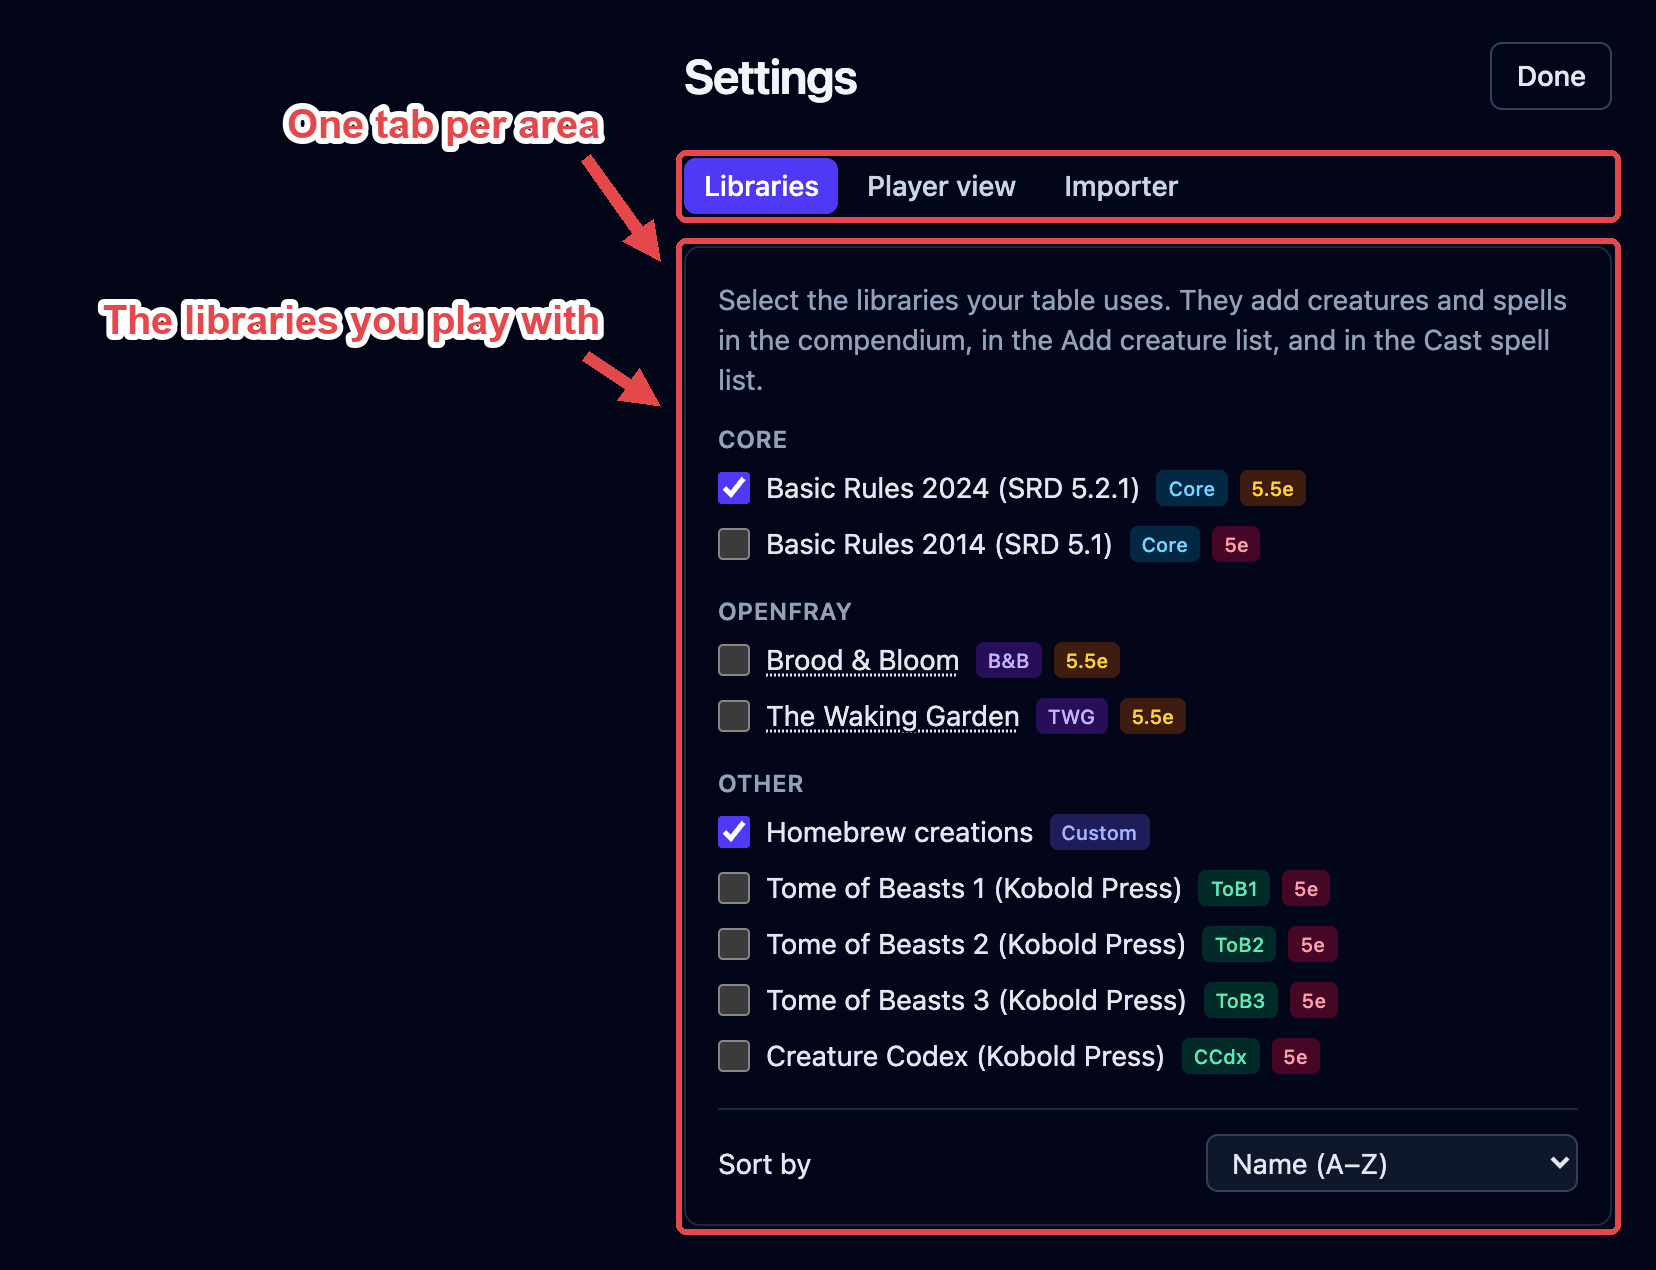
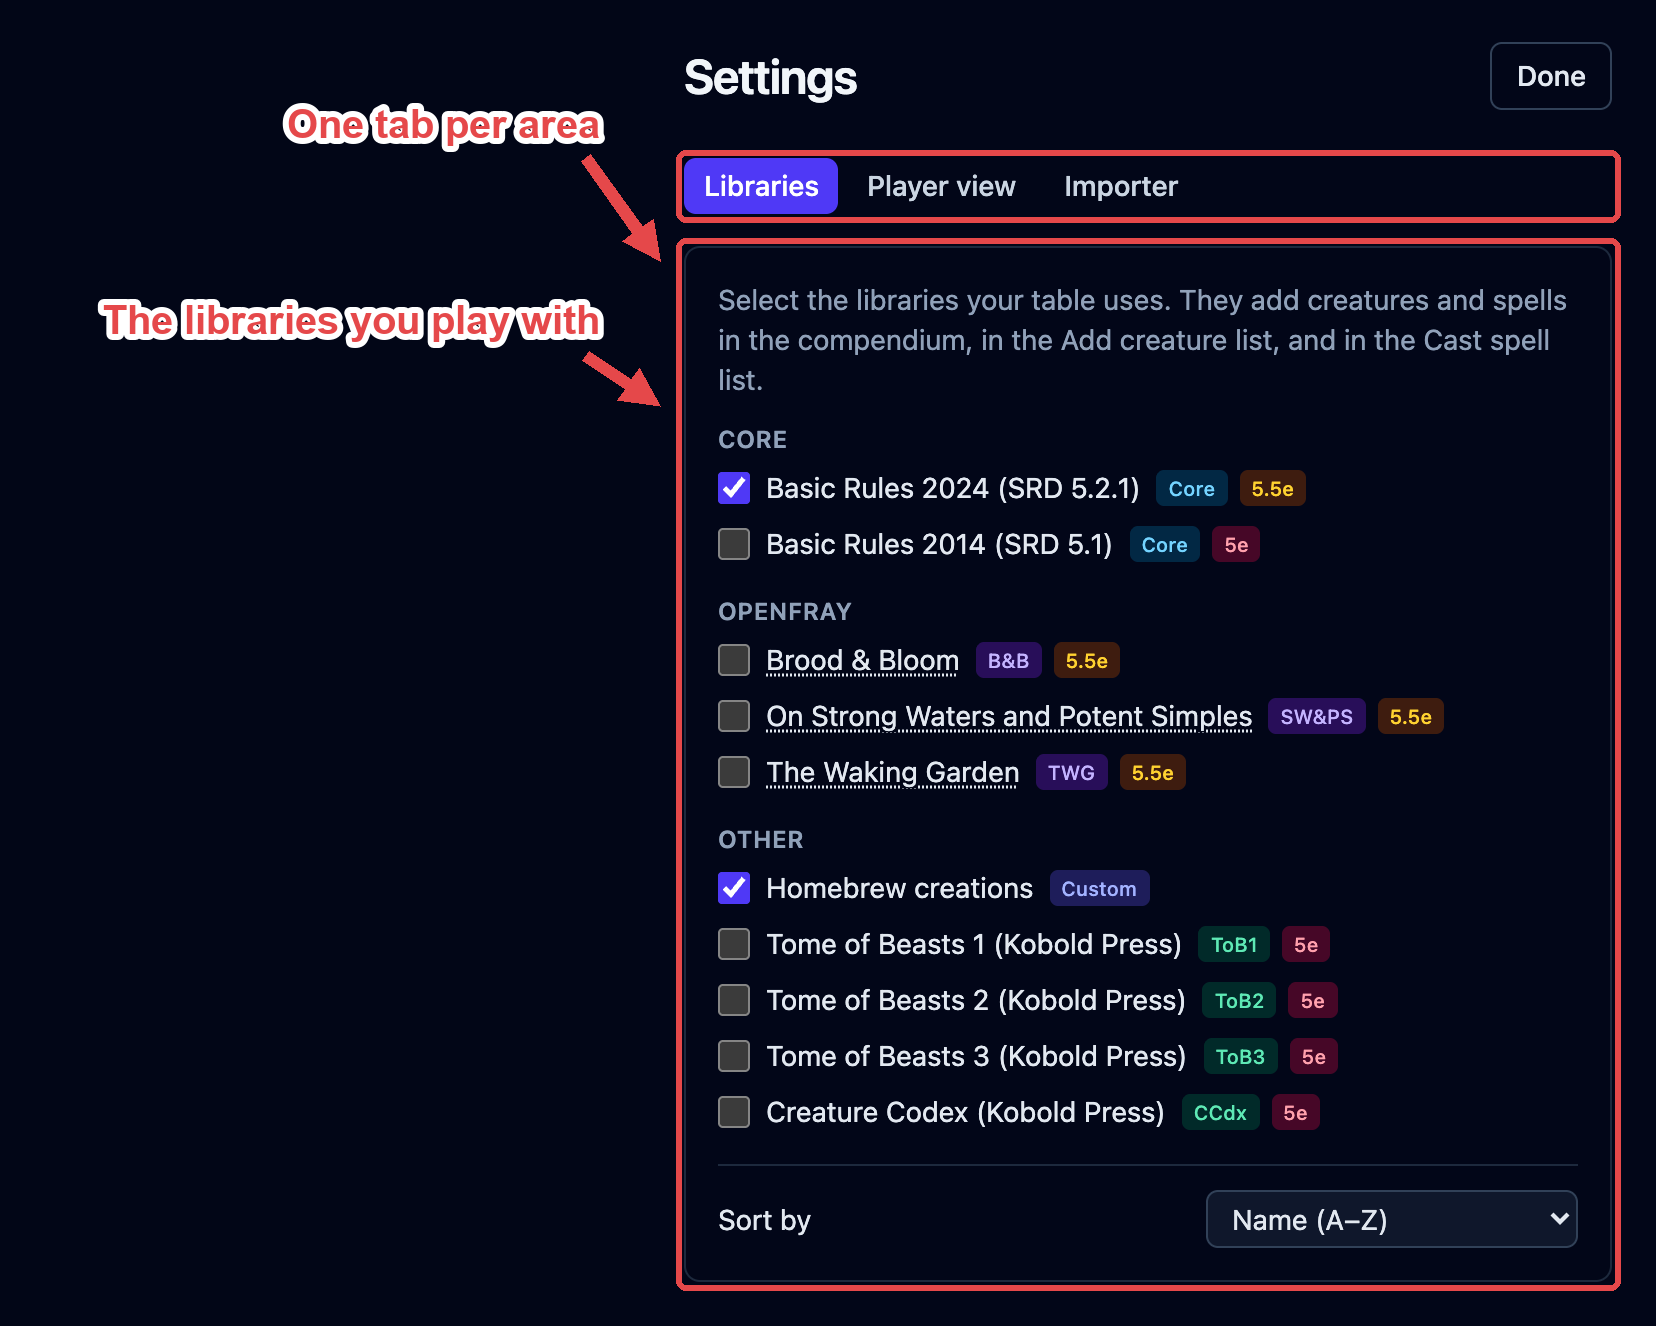
Docs: give the third book its place in the library lists
CREDITS names it beside the other two first-party works, and both handbook
pages that enumerate the libraries gain an entry. It needs its own sentence
rather than a third name in the existing one: it is the only book here that
adds no creatures, so a reader who ticks it and then opens Add creature has to
already know nothing will have changed.

The two Settings captures are re-shot from the current build, since a library
list with a library missing from it is a stale screenshot.

Changed region(s): [[0.3696, 0.0307, 0.9855, 0.9827], [0.0616, 0.215, 0.4004, 0.3378], [0.154, 0.0614, 0.3696, 0.1535]]

diff --git a/docs/src/content/docs/library/compendium.md b/docs/src/content/docs/library/compendium.md
@@ -78,6 +78,10 @@ The compendium shows the books you've turned on. OpenFray ships with:
 - **Brood & Bloom** (DnD 5.5e) — OpenFray's own, a bestiary of parasites in three
   broods — one that lives in people, one that takes ground and buildings, and one that
   wants only the dead — plus the Lazaret, the order that catalogs and treats them.
+- **On Strong Waters and Potent Simples** (DnD 5.5e) — OpenFray's own, and the one book
+  here that isn't a bestiary. It's an apothecary's book of drink and drugs, and it adds
+  eleven spells and a set of ready-made **Presets** for the intoxication, craving, and
+  addiction it counts. It adds no creatures.
 - **The Waking Garden** (DnD 5.5e) — OpenFray's own, a bestiary of vegetables that have
   woken up, across three stages of growth from a cabbage that can't chase you to the
   thing every garden is a cutting from.
@@ -102,8 +106,8 @@ OpenFray creature without retyping it, see [the importer](/docs/library/importer
 :::note[Where the rules come from]
 The built-in rules come from the official System Reference Document, used under the
 CC-BY-4.0 license. The Tome of Beasts books are used under the Open Game License.
-Brood & Bloom and The Waking Garden are written for OpenFray: their stat blocks are
-CC-BY-4.0, their lore, art, and prose stay ours. Full credit for every source is in the
+Brood & Bloom, The Waking Garden, and On Strong Waters and Potent Simples are written for
+OpenFray: their stat blocks and spells are CC-BY-4.0, their lore, art, and prose stay ours. Full credit for every source is in the
 app. OpenFray is compatible with 5e (2014) and 5.5e (2024) and isn't made or approved by
 Wizards of the Coast.
 :::

diff --git a/CREDITS.md b/CREDITS.md
@@ -38,10 +38,10 @@ and never invoke the OGL. Required attribution:
 
 ## OpenFray original content
 
-*Brood & Bloom* and *The Waking Garden* are © 2026 OpenFray. The stat blocks and game
-mechanics are free to reuse. The lore, art, and prose are not; all rights reserved. The
-terms are below, and are published with each work: in the app, on <https://openfray.app>,
-and in the print edition.
+*Brood & Bloom*, *The Waking Garden*, and *On Strong Waters and Potent Simples* are ©
+2026 OpenFray. The stat blocks and game mechanics are free to reuse. The lore, art, and
+prose are not; all rights reserved. The terms are below, and are published with each work:
+in the app, on <https://openfray.app>, and in the print edition.
 
 - **Creatures, spells, and mechanics.** The stat blocks, the spells, and the game mechanics
   — every field of a creature or spell entry other than a creature's `description` — are

diff --git a/docs/src/content/docs/reference/settings.md b/docs/src/content/docs/reference/settings.md
@@ -30,6 +30,9 @@ On the **Libraries** tab, tick the ones your table uses.
 - **Creature Codex** — a fourth Kobold Press bestiary.
 - **Brood & Bloom** and **The Waking Garden** — OpenFray's own creatures, written for the
   2024 rules. Their names are links: click one to read the book itself, in a new tab.
+- **On Strong Waters and Potent Simples** — OpenFray's own too, but a book of spells and
+  ready-made **Presets** rather than creatures. Turning it on adds nothing to the **Add
+  creature** list.
 
 Whatever you turn on shows up in the [compendium](/docs/library/compendium/) and in the
 **Add creature** list, each entry badged with where it came from. Creatures and spells you
